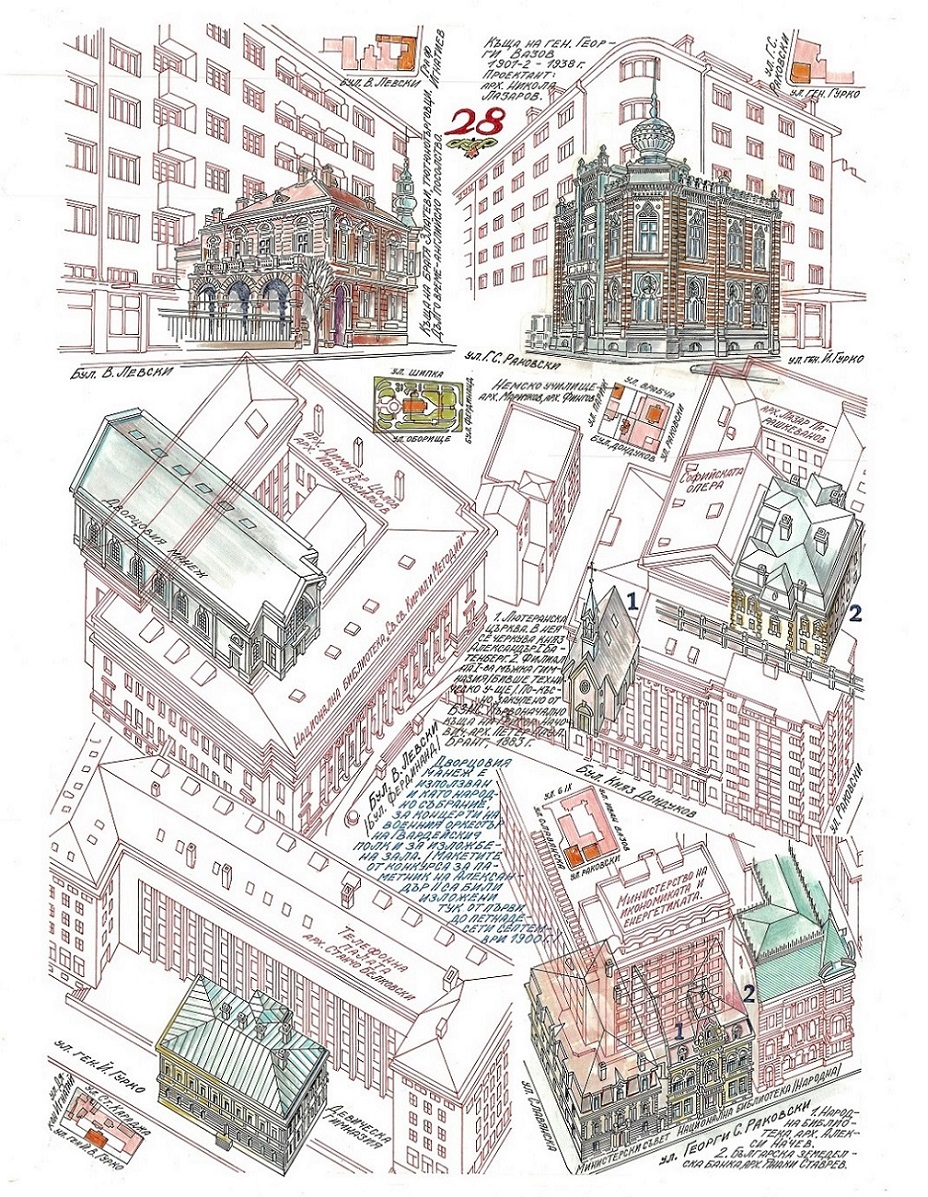
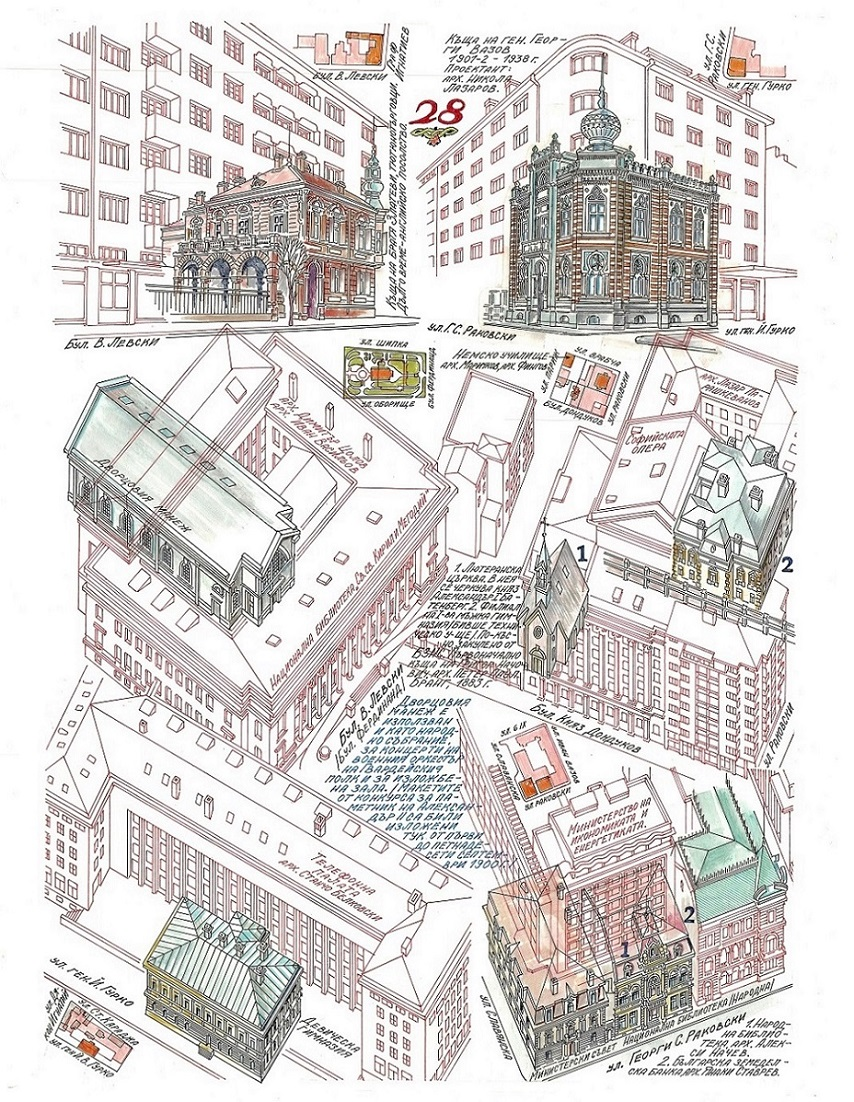
Image resizing and small screen styling

diff --git a/style/style.css b/style/style.css
@@ -432,6 +432,17 @@ header.resized .navigation {
     }
 }
 
+@media only screen and (max-width: 640px) and (max-height: 360px) {
+    .navigation {
+        padding-right: 0;
+        text-align: center;
+    }
+
+    .navigation ul {
+        padding-inline-start: 0;
+    }
+}
+
 /* GALLERY PAGE */
 
 .gallery {
@@ -601,6 +612,13 @@ header.resized .navigation {
     }
 }
 
+
+@media only screen and (max-width: 640px) and (max-height: 360px) {
+    .image-wrapper {
+        margin-top: 8vh;
+    }
+}
+
 /* AUTHOR & BOOK PAGE */
 
 .text-container {
@@ -650,9 +668,15 @@ header.resized .navigation {
     border-top: 1px dotted #ccc;
 }
 
-@media only screen and (max-width: 600px) {
+@media only screen and (max-width: 640px) and (max-height: 360px) {
     .text-wrapper {
-        width: 80%;
+        margin-top: 20px;
+    }
+}
+
+@media only screen and (max-width: 640px) {
+    .text-wrapper {
+        width: 84%;
     }
 }
 
@@ -920,11 +944,13 @@ header.resized .navigation {
     }
 }
 
-@media only screen and (max-width: 600px) {
+@media only screen and (max-width: 640px) {
     .contact-form {
         width: 84%;
     }
+}
 
+@media only screen and (max-width: 600px) {
     .contact-form form {
         width: 96%;
     }
@@ -938,6 +964,12 @@ header.resized .navigation {
 @media only screen and (max-width: 360px) {
     .contact-form {
         width: 92%;
+    }
+}
+
+@media only screen and (max-width: 640px) and (max-height: 360px) {
+    .contact-form {
+        margin-top: 20px;
     }
 }
 
